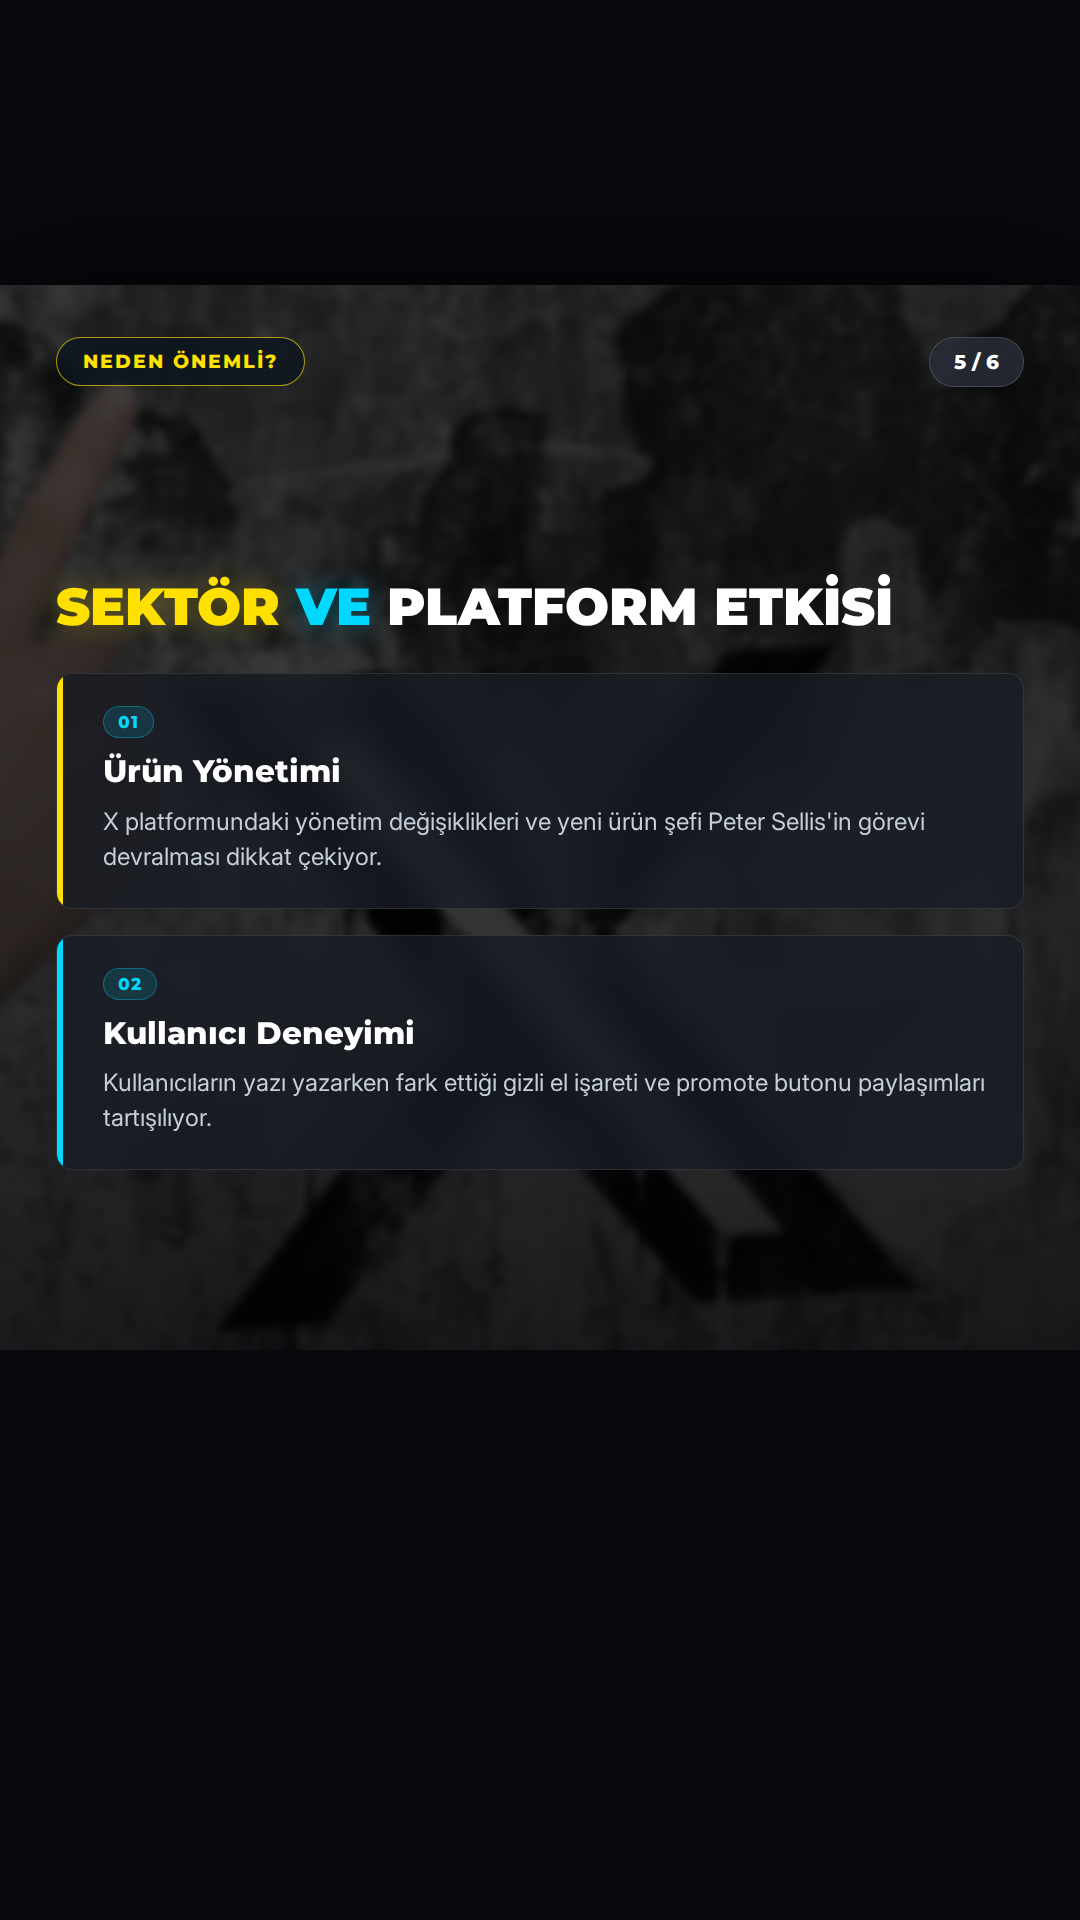
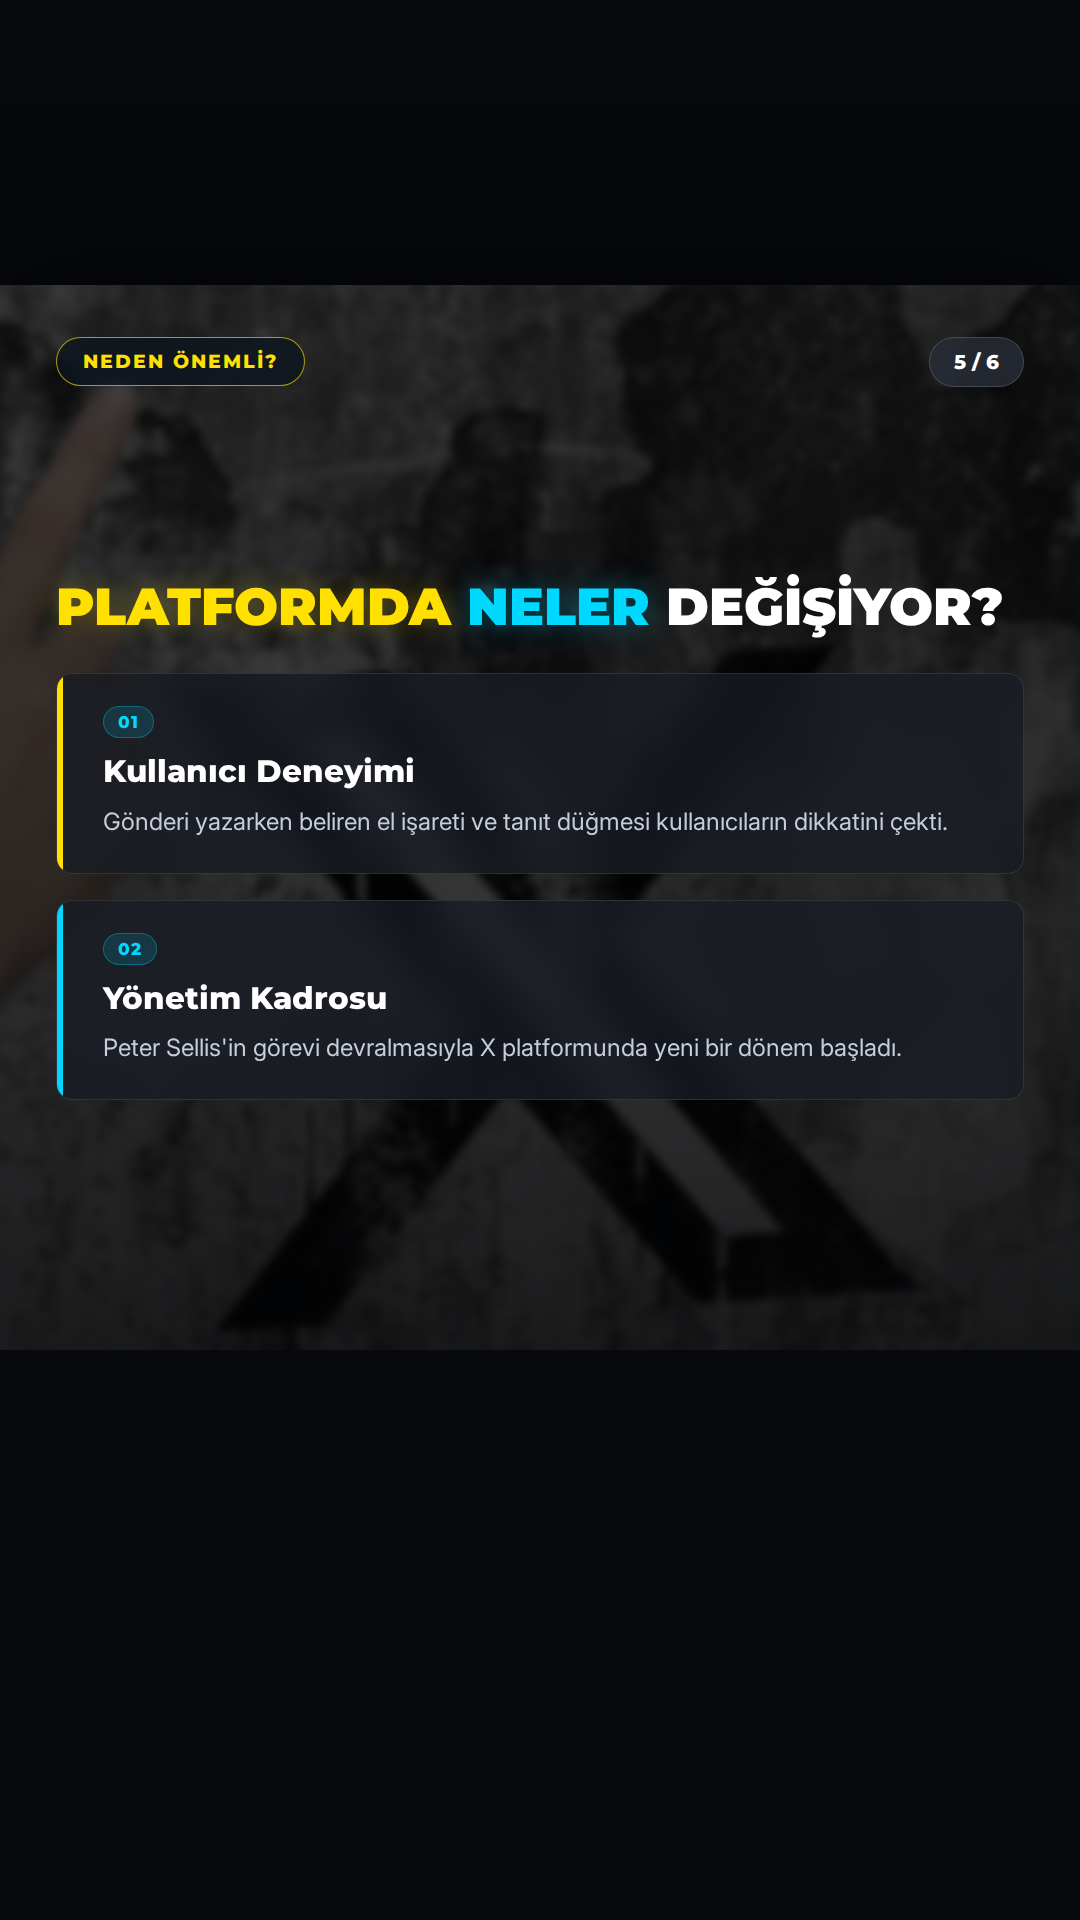
🤖 post: 2026-10-27 09:00 – X is nudging users to promote their posts with a pointing ha

diff --git a/output/2026-10-27/01-0900-x-is-nudging-users-to-promote-their-posts-with-a/verification.md b/output/2026-10-27/01-0900-x-is-nudging-users-to-promote-their-posts-with-a/verification.md
@@ -3,52 +3,42 @@
 **Haber:** X is nudging users to promote their posts with a pointing hand, and people are confused
 **Canonical URL:** https://techcrunch.com/2026/10/26/x-is-nudging-users-to-promote-their-posts-with-a-pointing-hand-and-people-are-confused/
 **Kaynaklar:** TechCrunch, The Verge, BBC News – Technology, Ars Technica
-**Kontrol zamanı:** 2026-10-27T10:03:25+03:00
+**Kontrol zamanı:** 2026-10-27T10:12:19+03:00
 **Sonuç:** ✅ YAYINLANABİLİR
 
 ---
 
 ## İddia Bazlı Sonuçlar
 
-### 1. Son 24 saat içinde, birçok kullanıcı yazı yazarken promote butonunu gösteren gizli bir el işaretinin çıktığını paylaştı.
+### 1. Son 24 saat içinde, kullanıcılar bir gönderi yazarken "tanıt" düğmesini gösteren gizemli bir el işaretinin belirdiğini bildirdi.
 - **Karar:** ✅ `supported`
 - **Kanıtlar:**
   - [https://techcrunch.com/2026/10/26/x-is-nudging-users-to-promote-their-posts-with-a-pointing-hand-and-people-are-confused/](https://techcrunch.com/2026/10/26/x-is-nudging-users-to-promote-their-posts-with-a-pointing-hand-and-people-are-confused/)
     > Over the last 24 hours, a growing number of users have posted that a mysterious hand pointing to the “promote” button suddenly showed up while they were writing a post.
 
-### 2. TBPN podcast başkanı Dylan Abruscato, bu etkileşim hilesini Nikita Bier ile ilişkilendirdi.
+### 2. TBPN podcast’inin başkanı Dylan Abruscato, bu etkileşim hilesini X’in eski ürün müdürü Nikita Bier ile ilişkilendirdi.
 - **Karar:** ✅ `supported`
 - **Kanıtlar:**
   - [https://techcrunch.com/2026/10/26/x-is-nudging-users-to-promote-their-posts-with-a-pointing-hand-and-people-are-confused/](https://techcrunch.com/2026/10/26/x-is-nudging-users-to-promote-their-posts-with-a-pointing-hand-and-people-are-confused/)
     > TBPN podcast’s president Dylan Abruscato said that this engagement trick was the “most Nikita-coded thing I’ve ever seen,” a nod to the growth tactics associated with Nikita Bier, X’s former head of product.
 
-### 3. Nikita Bier, X'in eski ürün başkanıdır.
-- **Karar:** ✅ `supported`
-- **Kanıtlar:**
-  - [https://techcrunch.com/2026/10/26/x-is-nudging-users-to-promote-their-posts-with-a-pointing-hand-and-people-are-confused/](https://techcrunch.com/2026/10/26/x-is-nudging-users-to-promote-their-posts-with-a-pointing-hand-and-people-are-confused/)
-    > Nikita Bier, X’s former head of product.
-  - [https://techcrunch.com/2026/10/26/x-is-nudging-users-to-promote-their-posts-with-a-pointing-hand-and-people-are-confused/](https://techcrunch.com/2026/10/26/x-is-nudging-users-to-promote-their-posts-with-a-pointing-hand-and-people-are-confused/)
-    > a nod to the growth tactics associated with Nikita Bier, X’s former head of product.
-
-### 4. Nikita Bier Ağustos ayında platformdan ayrıldı.
+### 3. Nikita Bier, yaklaşık bir yıl görev yaptıktan sonra ağustos ayında platformdan ayrıldı.
 - **Karar:** ✅ `supported`
 - **Kanıtlar:**
   - [https://techcrunch.com/2026/10/26/x-is-nudging-users-to-promote-their-posts-with-a-pointing-hand-and-people-are-confused/](https://techcrunch.com/2026/10/26/x-is-nudging-users-to-promote-their-posts-with-a-pointing-hand-and-people-are-confused/)
     > Bier left the platform in August after almost a year at the helm.
 
-### 5. Peter Sellis, X'in yeni ürün şefi olarak görevi devraldı.
+### 4. Pazartesi günü Peter Sellis, X’in ürün şefi olarak görevi devraldığını açıkladı.
 - **Karar:** ✅ `supported`
 - **Kanıtlar:**
-  - [https://techcrunch.com/2026/10/26/x-is-nudging-users-to-promote-their-posts-with-a-pointing-hand-and-people-are-confused/](https://techcrunch.com/2026/10/26/x-is-nudging-users-to-promote-their-posts-with-a-pointing-hand-and-people-are-confused/)
-    > Peter Sellis, posted that he has taken over as X’s product chief.
   - [https://techcrunch.com/2026/10/26/x-is-nudging-users-to-promote-their-posts-with-a-pointing-hand-and-people-are-confused/](https://techcrunch.com/2026/10/26/x-is-nudging-users-to-promote-their-posts-with-a-pointing-hand-and-people-are-confused/)
     > On Monday, Bier’s former boss and ex-head of product for Snap and Discord, Peter Sellis, posted that he has taken over as X’s product chief.
 
-### 6. Peter Sellis, X'in eski ürün başkanı Bier'in eski yöneticisidir ve Snap ile Discord'un eski ürün başkanıdır.
+### 5. Peter Sellis, daha önce Snap ve Discord'da ürün başkanı olarak görev yapmıştır.
 - **Karar:** ✅ `supported`
 - **Kanıtlar:**
   - [https://techcrunch.com/2026/10/26/x-is-nudging-users-to-promote-their-posts-with-a-pointing-hand-and-people-are-confused/](https://techcrunch.com/2026/10/26/x-is-nudging-users-to-promote-their-posts-with-a-pointing-hand-and-people-are-confused/)
-    > On Monday, Bier’s former boss and ex-head of product for Snap and Discord, Peter Sellis, posted that he has taken over as X’s product chief.
+    > Bier’s former boss and ex-head of product for Snap and Discord, Peter Sellis
 
 ---
 
@@ -56,12 +46,11 @@
 
 | İddia | 1. Tur | 2. Tur | Nihai |
 |-------|--------|--------|-------|
-| Son 24 saat içinde, birçok kullanıcı yazı yazarken promote b | supported | supported | supported |
-| TBPN podcast başkanı Dylan Abruscato, bu etkileşim hilesini  | supported | supported | supported |
-| Nikita Bier, X'in eski ürün başkanıdır. | supported | supported | supported |
-| Nikita Bier Ağustos ayında platformdan ayrıldı. | supported | supported | supported |
-| Peter Sellis, X'in yeni ürün şefi olarak görevi devraldı. | supported | supported | supported |
-| Peter Sellis, X'in eski ürün başkanı Bier'in eski yöneticisi | supported | supported | supported |
+| Son 24 saat içinde, kullanıcılar bir gönderi yazarken "tanıt | supported | supported | supported |
+| TBPN podcast’inin başkanı Dylan Abruscato, bu etkileşim hile | supported | supported | supported |
+| Nikita Bier, yaklaşık bir yıl görev yaptıktan sonra ağustos  | supported | supported | supported |
+| Pazartesi günü Peter Sellis, X’in ürün şefi olarak görevi de | supported | supported | supported |
+| Peter Sellis, daha önce Snap ve Discord'da ürün başkanı olar | supported | supported | supported |
 
 ## Kaynak Metinleri
 

diff --git a/output/2026-10-27/01-0900-x-is-nudging-users-to-promote-their-posts-with-a/captions.md b/output/2026-10-27/01-0900-x-is-nudging-users-to-promote-their-posts-with-a/captions.md
@@ -2,36 +2,48 @@
 
 ## INSTAGRAM
 
-X üzerinde son 24 saatte keşfedilen gizli el işareti ve promote butonu iddiası sosyal medyanın dilinde! Bu etkileşim hilesi hakkında ne düşünüyorsunuz? Kaynak: TechCrunch, The Verge
+X platformunda kullanıcıların dikkatini çeken gizemli el işareti gündemde! Gönderi yazarken beliren bu detay ve yönetim kadrosundaki değişiklikler mercek altında. Siz de X'te bu işareti fark ettiniz mi? Kaynak: TechCrunch, The Verge
 
-#X #Teknoloji #SosyalMedya #Gündem #Tech #News #Twitter #Dijital
+#X #SosyalMedya #Teknoloji #TechCrunch #TheVerge #Gündem #Haber #SocialMedia
 
 ## TIKTOK
 
-X'te ortaya çıkan bu gizli el işaretini gördünüz mü? Etkileşim hilesi ortalığı karıştırdı! Kaynak: TechCrunch
+X'te ortaya çıkan gizemli el işareti ve yeni dönem! Kaynak: TechCrunch, The Verge
 
-#X #Teknoloji #Gündem #Keşfet
+#X #Gündem #Teknoloji #Keşfet
 
 ## X
 
-X üzerinde son 24 saatte ortaya çıkan gizli el işareti ve promote butonu iddiası gündemde! Siz bu etkileşim hilesini fark ettiniz mi? Kaynak: TechCrunch, The Verge
+X'te gönderi yazarken beliren gizemli el işareti ve yeni ürün şefi Peter Sellis ile başlayan süreç dikkat çekiyor. Siz bu detayı fark ettiniz mi? Kaynak: TechCrunch, The Verge
 
 #X #Teknoloji
 
 ## THREADS
 
-X'te Gizli El İşareti İddiası! Son 24 saatte kullanıcıların paylaştığı gizli promote butonu ve el işareti detayı sosyal medyanın gündemine oturdu. X platformundaki bu gizli işaretler ve etkileşim hileleri hakkında ne düşünüyorsunuz? 💭 Kaynak: TechCrunch
+X'te Gizemli El İşareti Şoku
+
+Kullanıcıların gönderi yazarken karşılaştığı gizemli el işareti ve tanıt düğmesi detayları sosyal medyanın gündeminde yer alıyor. Yönetim kadrosundaki değişimlerle birlikte platformda yeni bir dönem başlıyor.
+
+Siz de X'te bu gizemli işareti fark ettiniz mi?
+
+💭 Kaynak: TechCrunch, The Verge
 
 #Teknoloji
 
 ## LINKEDIN
 
-X platformunda son 24 saatte yaşanan yönetim değişiklikleri ve kullanıcı deneyimini etkileyen gizli el işareti iddiaları teknoloji gündeminin merkezinde yer alıyor. Ürün yönetimi ve platform dinamikleri açısından bu gelişmeleri nasıl değerlendiriyorsunuz? Kaynak: TechCrunch, The Verge
+X platformunda yaşanan son gelişmeler teknoloji dünyasının odağında. Gönderi yazarken beliren gizemli el işareti ve eski ürün müdürü Nikita Bier iddiaları konuşulurken, Peter Sellis'in yeni ürün şefi olarak görevi devralmasıyla platformda yeni bir dönem başlıyor. Sektördeki bu değişimleri nasıl değerlendiriyorsunuz?
 
-#Teknoloji #SosyalMedya #İnovasyon #DijitalDönüşüm
+Kaynak: TechCrunch, The Verge
+
+#Teknoloji #SosyalMedya #İşDünyası #Yönetim #Gündem
 
 ## FACEBOOK
 
-X üzerinde son 24 saatte ortaya çıkan gizli el işareti ve promote butonu iddiası kullanıcılar arasında büyük merak uyandırdı. Bu etkileşim hilesi ve platformdaki gelişmeler hakkında ne düşünüyorsunuz? Kaynak: TechCrunch, The Verge
+X platformunda kullanıcıların gönderi yazarken karşılaştığı gizemli el işareti ve yönetim kadrosundaki değişiklikler büyük yankı uyandırdı. Peter Sellis'in ürün şefi olarak görevi devralmasıyla X'te yeni bir dönem başlıyor.
 
-#X #Teknoloji #Gündem #SosyalMedya
+Siz de X'te bu gizemli el işaretini fark ettiniz mi?
+
+Kaynak: TechCrunch, The Verge
+
+#X #Teknoloji #SosyalMedya #Gündem
